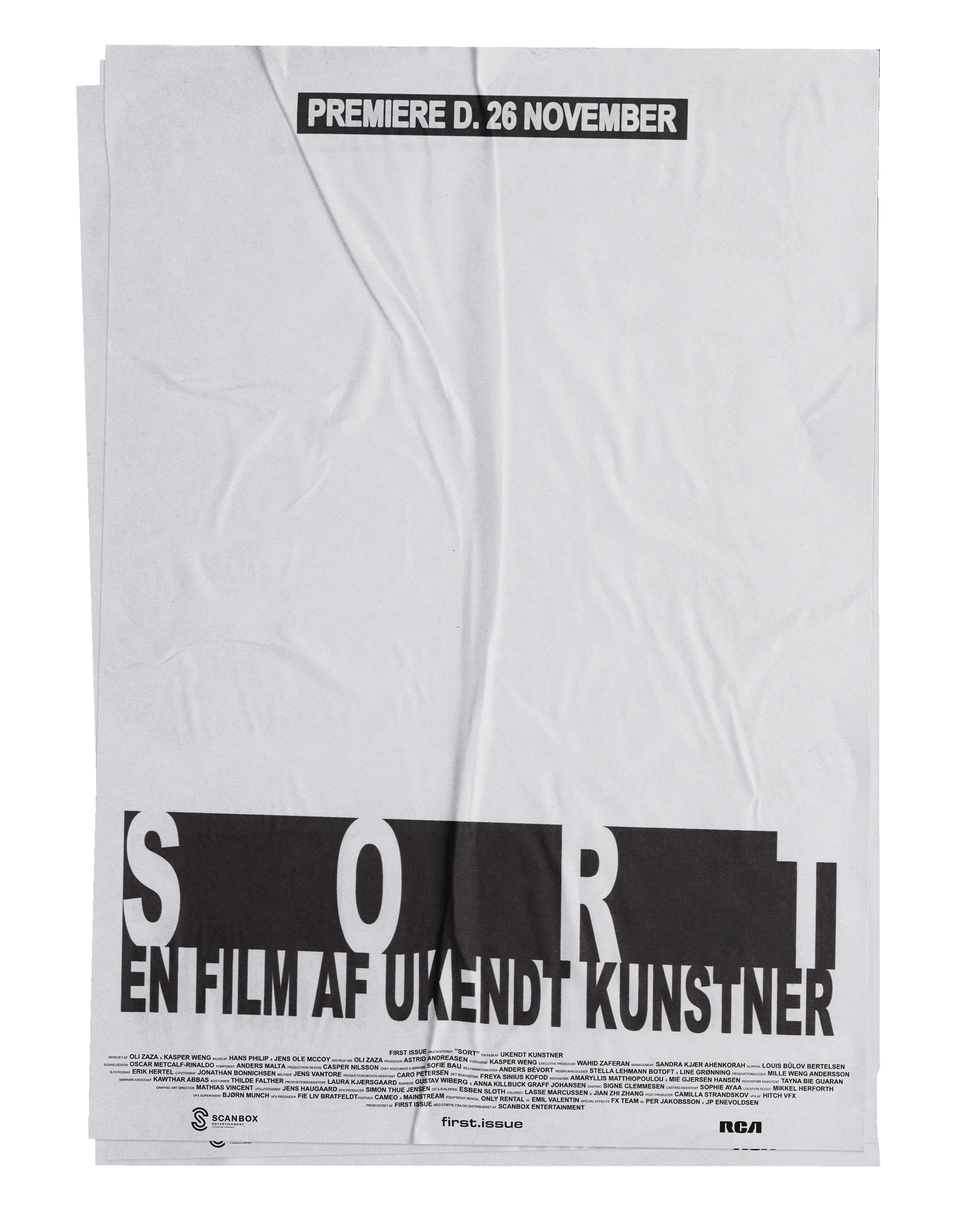
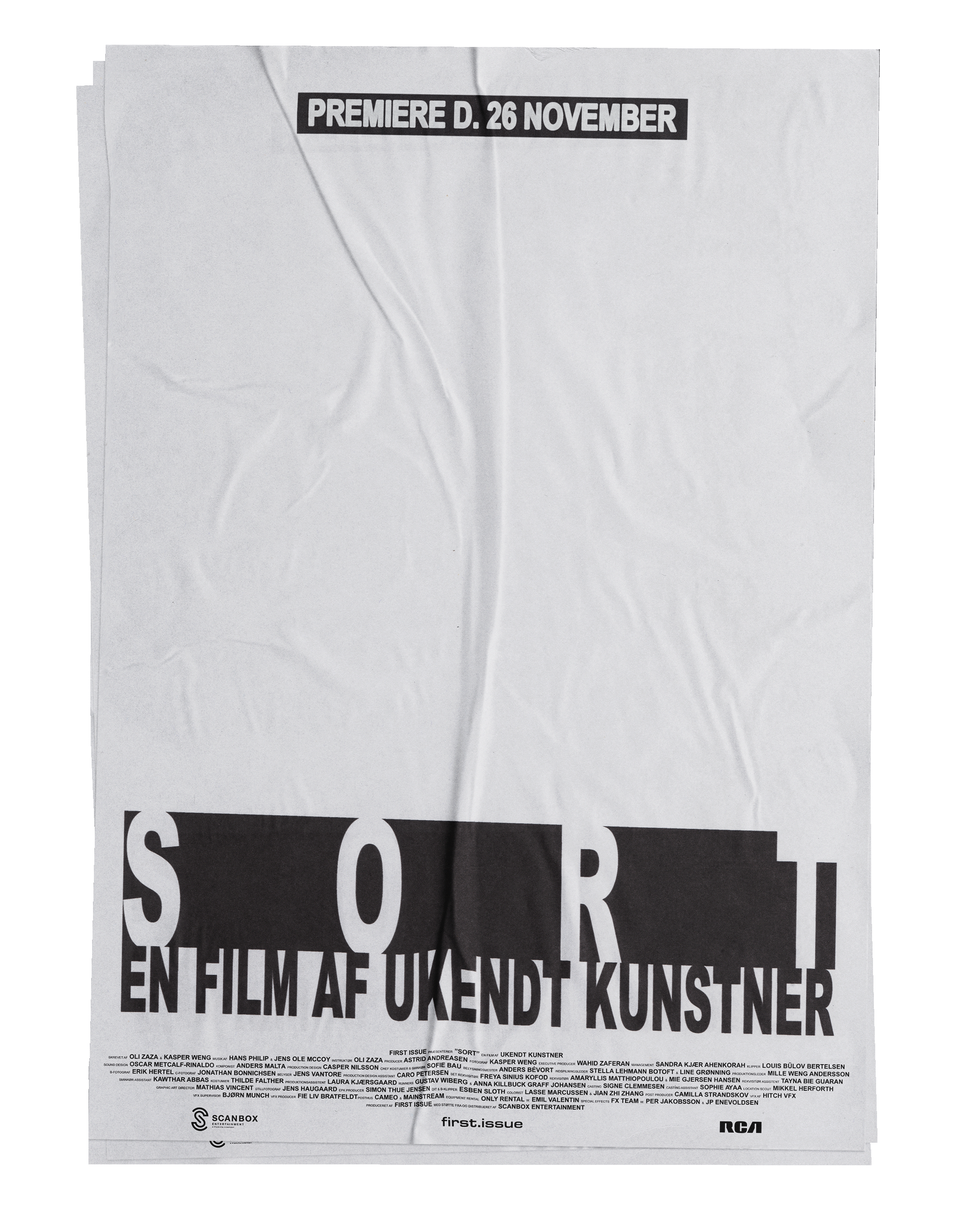
Add files via upload

diff --git a/index plakat.html b/index plakat.html
@@ -106,12 +106,6 @@
     body.email-focused .plakat-mockup {
       filter: blur(5px) brightness(0.55);
     }
-    body.email-focused .signup-wrap {
-      /* While focused, iOS keeps re-firing the viewport events that recompute
-         this position; animating each one on top of the last is what looked
-         like flicker, so snap instead of transitioning until it settles. */
-      transition: none;
-    }
     .signup-bar {
       display: flex;
     }
@@ -137,7 +131,7 @@
       top: 0;
       transform: translate(-50%, -50%);
       width: min(360px, 82vw);
-      transition: transform 0.2s ease;
+      opacity: 1;
     }
     .signup-bar {
       display: flex;
@@ -725,6 +719,7 @@
       var signupForm = document.getElementById('klaviyo-signup-form');
       var emailInput = document.getElementById('signup-email');
       var signupTerms = document.getElementById('signup-terms');
+      var submitButton = signupForm ? signupForm.querySelector('button') : null;
       var errorMessage = document.querySelector('.error-message');
       var submitted = false;
 
@@ -755,6 +750,7 @@
       var plakatImg = document.querySelector('.plakat-mockup');
       var emailFieldOffset = 0;
       var wrapGap = 40;
+      var settleTransitionTimer = null;
 
       // Anchors .signup-wrap to a fixed point just below the poster, using the
       // same "top + translate(-50%)" trick as the poster itself: the wrap's
@@ -808,14 +804,31 @@
       if (emailInput) {
         emailInput.addEventListener('input', function () {
           clearInvalidState();
-          if (emailInput.value.trim()) {
-            emailInput.closest('.signup-wrap').classList.add('signup-started');
-          }
         });
 
         emailInput.addEventListener('focus', function () {
           document.body.classList.add('email-focused');
-          centerEmailFieldInViewport();
+          if (signupWrap) signupWrap.classList.add('signup-started');
+          // Instead of animating the move itself (which kept looking like a
+          // jump/slide given how the position gets recalculated), fade the
+          // field out, snap it straight to the centered spot while it's
+          // invisible, then fade it back in — hides the repositioning
+          // entirely instead of trying to make it look smooth.
+          clearTimeout(settleTransitionTimer);
+          if (signupWrap) {
+            signupWrap.style.transition = 'opacity 0.15s ease';
+            signupWrap.style.opacity = '0';
+          }
+          settleTransitionTimer = setTimeout(function () {
+            centerEmailFieldInViewport();
+            if (signupWrap) {
+              // Force layout so the fade-in starts from the new position
+              // instead of animating anything about the move itself.
+              void signupWrap.offsetHeight;
+              signupWrap.style.transition = 'opacity 0.2s ease';
+              signupWrap.style.opacity = '1';
+            }
+          }, 150);
           if (window.visualViewport) {
             window.visualViewport.addEventListener('resize', centerEmailFieldInViewport);
             window.visualViewport.addEventListener('scroll', centerEmailFieldInViewport);
@@ -824,11 +837,36 @@
 
         emailInput.addEventListener('blur', function () {
           document.body.classList.remove('email-focused');
+          clearTimeout(settleTransitionTimer);
+          if (signupWrap) {
+            signupWrap.style.transition = '';
+            signupWrap.style.opacity = '';
+          }
           if (window.visualViewport) {
             window.visualViewport.removeEventListener('resize', centerEmailFieldInViewport);
             window.visualViewport.removeEventListener('scroll', centerEmailFieldInViewport);
           }
           resetSignupPosition();
+        });
+      }
+
+      // Keep the email field focused (keyboard open, layout centered) when
+      // ticking the terms checkbox — preventing the default action on
+      // mousedown stops the browser from shifting focus to the checkbox,
+      // while the 'click' that follows still toggles it normally.
+      var signupTermsLabel = signupTerms ? signupTerms.closest('label') : null;
+      if (signupTermsLabel) {
+        signupTermsLabel.addEventListener('mousedown', function (event) {
+          event.preventDefault();
+        });
+      }
+
+      // Same idea for the submit button: stay focused (and centered) through
+      // validation errors or a failed request, and only drop focus once the
+      // signup actually succeeds (handled in the submit handler below).
+      if (submitButton) {
+        submitButton.addEventListener('mousedown', function (event) {
+          event.preventDefault();
         });
       }
 
@@ -852,7 +890,7 @@
 
           clearInvalidState();
 
-          var button = signupForm.querySelector('button');
+          var button = submitButton;
           if (button.disabled) return;
           button.disabled = true;
           button.textContent = 'SENDER…';
@@ -892,6 +930,10 @@
             signupForm.classList.add('submitted');
             button.textContent = 'TAK';
             errorMessage.textContent = '';
+            // Only drop focus (undoing the centered/blurred layout) once the
+            // signup has actually succeeded — validation errors and failed
+            // requests keep the field focused so the user can just retry.
+            if (emailInput) emailInput.blur();
           } catch (error) {
             errorMessage.textContent = error.message === 'rate_limit'
               ? 'For mange forsøg. Vent lidt, og prøv igen.'
